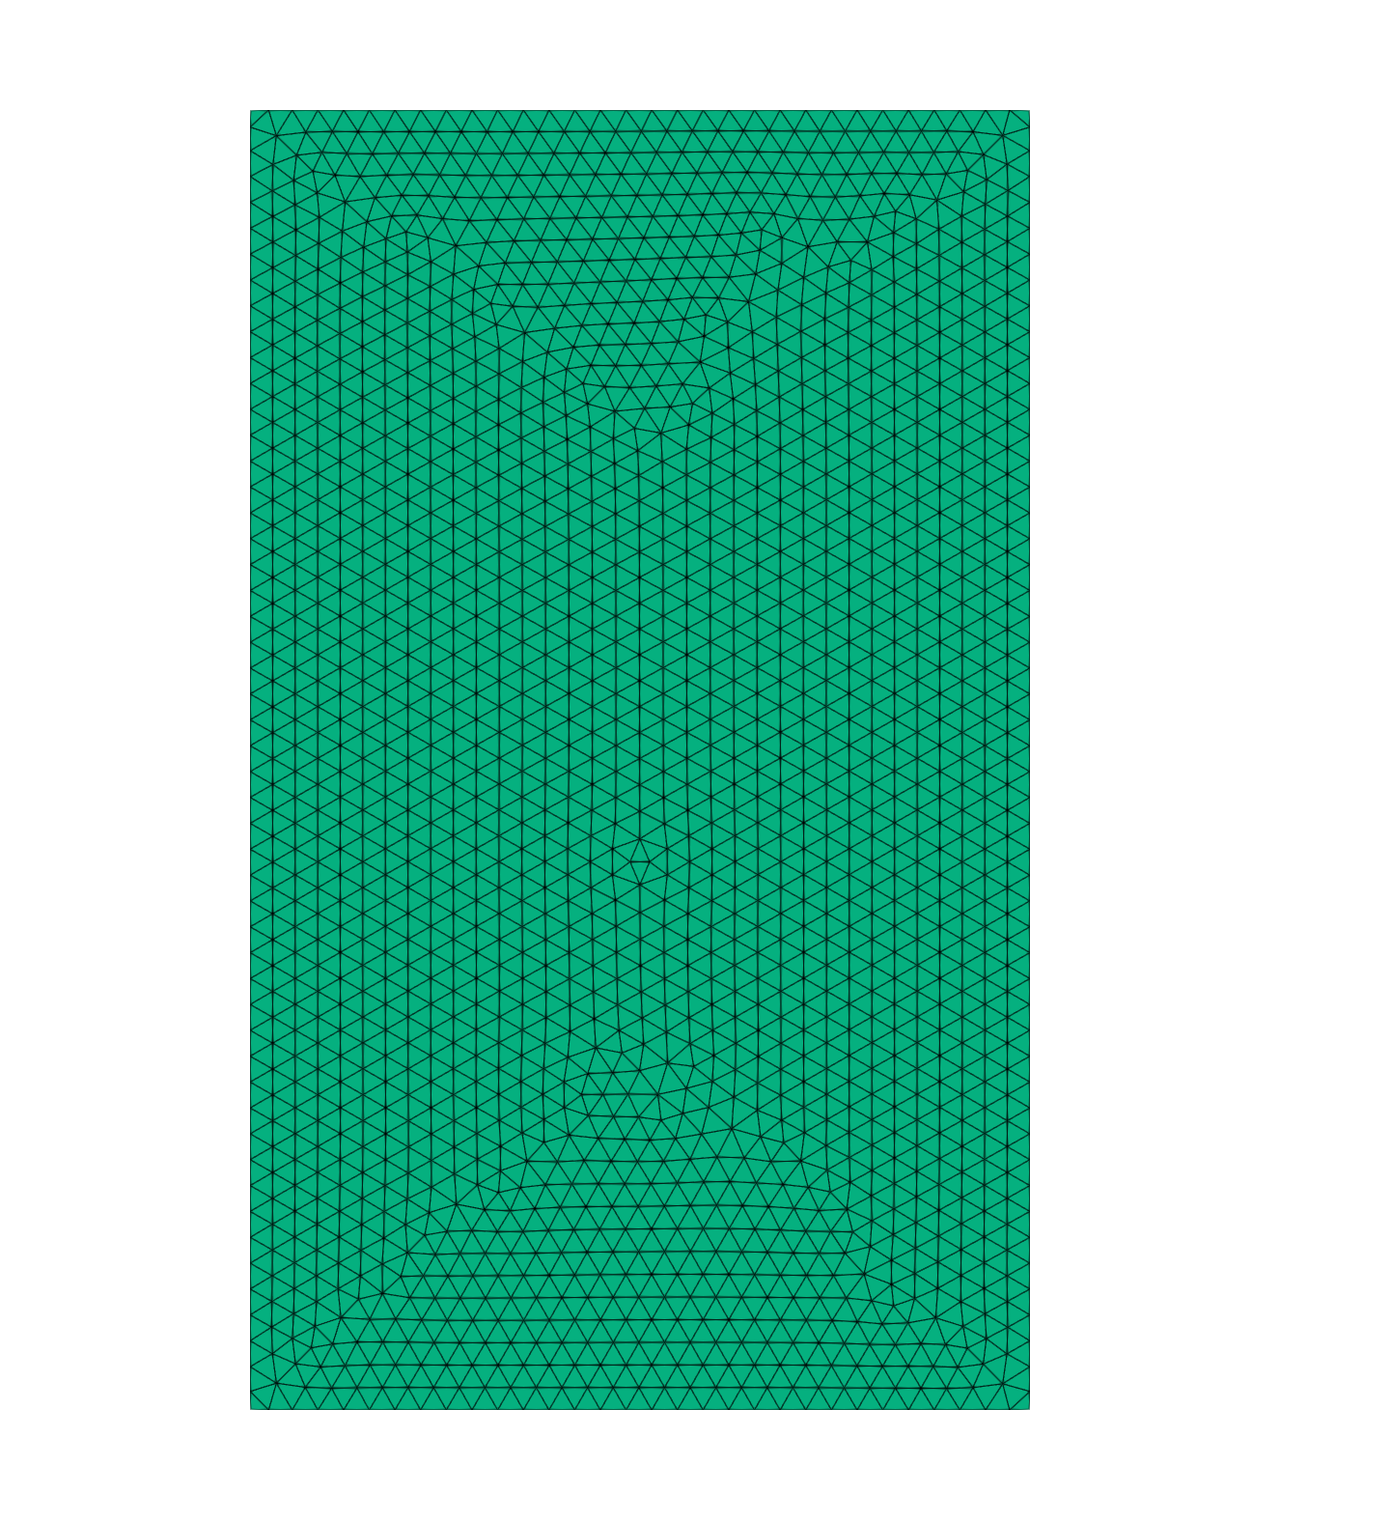
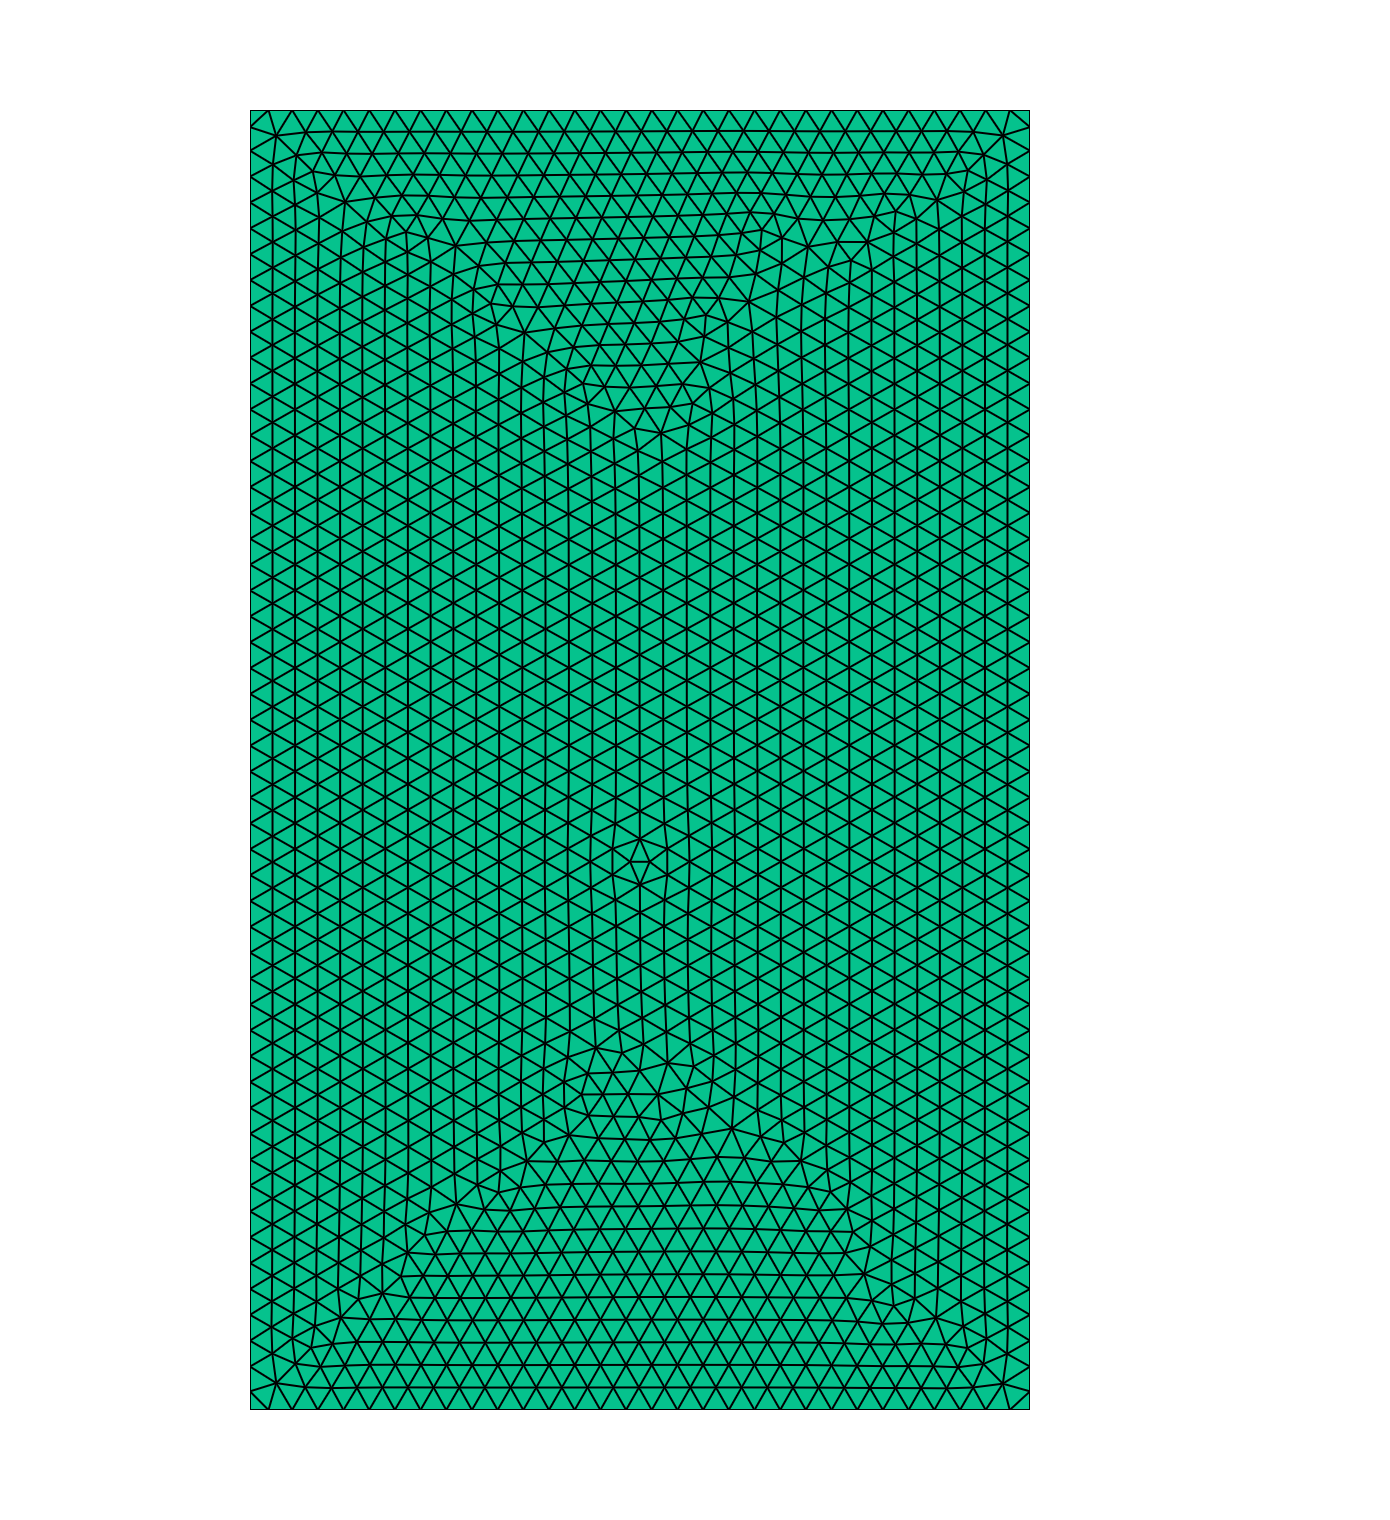
Render the Cameron 1986 scenes with PyVista

Changed region(s): [[0.1856, 0.0618, 0.7424, 0.9276]]

diff --git a/Thermal/Cameron_1986_Heat_Transfer_With_Convection/case.py b/Thermal/Cameron_1986_Heat_Transfer_With_Convection/case.py
@@ -117,10 +117,40 @@ class Cameron1986(ValidationCase):
                 path=f"{self.results_path}/Temperature.png",
             )
 
-        # ParaView export (collective) ------------------------------------------------
+        # Field export for the scenes of create_scenes() (collective)
         vis = self.sim.get_field_exporter()
         vis.add_field_output("Temperature")
         vis.save()
+
+    def create_scenes(self):
+        # The plate (0.6 m x 1.0 m) seen from the front (onto the x-y plane), as
+        # data/Geometry.png.
+        import numpy as np
+
+        from casekit.pyvista_scene import FieldExportReader, add_colorbar, create_scene
+
+        plate = FieldExportReader(self.dir_path).read()["Plate"]
+
+        # The temperature, with the color bar on the right.
+        plate["Temperature [°C]"] = plate["Temperature"] - 273.15
+        scene = create_scene((1000, 1300))
+        actor = scene.add_mesh(plate, scalars="Temperature [°C]", clim=(0.0, 100.0))
+        scene.view_xy()
+        scene.camera.zoom(1.3)
+        # Room for the color bar on the right: the camera moves right (+x).
+        scene.camera.focal_point += np.array([0.1, 0.0, 0.0])
+        scene.camera.position += np.array([0.1, 0.0, 0.0])
+        add_colorbar(scene, actor, "Temperature [°C]", label_format="%.0f")
+        scene.show(screenshot=self.results_path / "Scene_Temperature.png")
+
+        # The mesh in the flat color of the plate in data/Geometry.png and at the size and
+        # position of the plate there (1300 px high, its center at (640, 760) px of the 1390 x
+        # 1520 px image, see create_geometry_image.py), so that both images of Figure 1 match.
+        scene = create_scene((1390, 1520))
+        scene.add_mesh(plate, color=(0.02, 0.69, 0.5), show_edges=True, lighting=False)
+        scene.camera_position = [(0.3423, 0.5, 1.0), (0.3423, 0.5, 0.005), (0, 1, 0)]
+        scene.camera.parallel_scale = 760 / 1300  # half the image height in meters
+        scene.show(screenshot=self.dir_path / "data" / "Mesh.png")
 
 
 if __name__ == "__main__":

diff --git a/Thermal/Cameron_1986_Heat_Transfer_With_Convection/create_geometry_image.py b/Thermal/Cameron_1986_Heat_Transfer_With_Convection/create_geometry_image.py
@@ -1,7 +1,8 @@
 """Render data/Geometry.png from geometry.step with the netgen viewer.
 
-The plate is seen from the front (onto the x-y plane), as the scene of create_scene.py, with
-the boundary conditions of the benchmark and the evaluation point E. Needs a display; headless:
+The plate is seen from the front (onto the x-y plane), as the scenes of create_scenes() in
+case.py, with the boundary conditions of the benchmark and the evaluation point E. Needs a
+display; headless:
 
     xvfb-run -a -s "-screen 0 2400x1600x24" python create_geometry_image.py
 """

diff --git a/Thermal/Cameron_1986_Heat_Transfer_With_Convection/README.md b/Thermal/Cameron_1986_Heat_Transfer_With_Convection/README.md
@@ -36,7 +36,7 @@ No internal heat generation is present.
 
 Run the case with `pymufem case.py`. The geometry image of Figure 1 is rendered from `geometry.step`
 with the netgen viewer by [create_geometry_image.py](create_geometry_image.py), the mesh image by
-[create_scene.py](create_scene.py).
+`create_scenes()` in [case.py](case.py).
 
 ## Results
 
@@ -60,7 +60,7 @@ height of $`y = 0.5`$ m.
 ## Scenes
 
 The temperature is exported to `VisualizationOutput/`; Figure 3, rendered from it with
-ParaView by [create_scene.py](create_scene.py) (run with `pvpython create_scene.py` after the case),
+[PyVista](https://pyvista.org/) by `create_scenes()` in [case.py](case.py) (run the case with `--scenes`, or with `--scenes-only` after a run; see [Scenes](https://github.com/Raiden-Numerics/mufem/blob/main/VALIDATION.md#scenes)),
 shows the temperature distribution over the computational domain.
 
 <div align="center">
